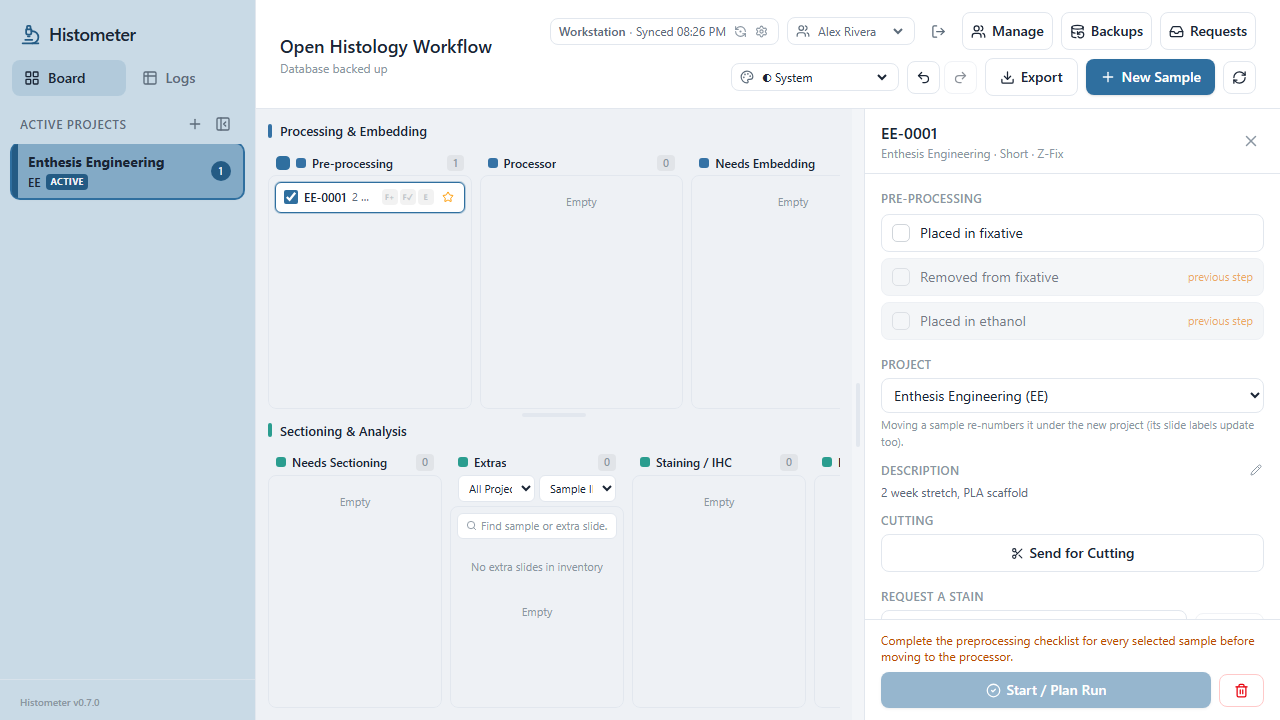
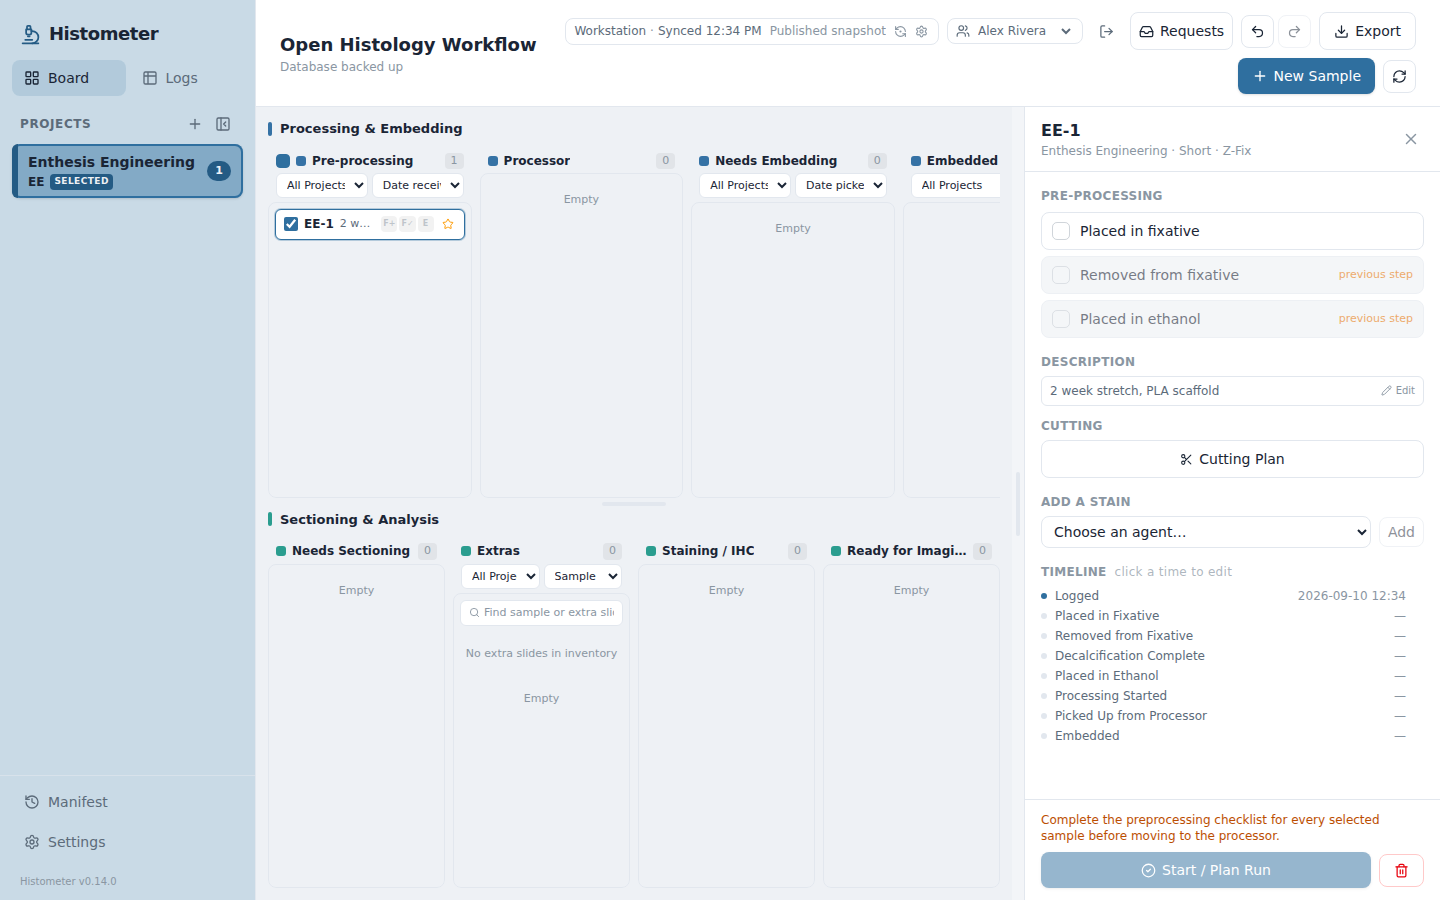
no-mistakes(document): docs: regenerate tutorial screenshots, fix stale walkthrough prose

diff --git a/tests/tutorial/showcase.spec.ts b/tests/tutorial/showcase.spec.ts
@@ -7,7 +7,7 @@ import { settleAfterDrop } from "../helpers/drag";
 //   npx playwright test --config playwright.showcase.config.ts
 //
 // Each shot() writes docs/tutorial/img/<name>.png. The flow is sequential: one
-// sample (EE-0001) is carried from intake all the way to imaging, then the Logs,
+// sample (EE-1) is carried from intake all the way to imaging, then the Logs,
 // depth-tagging, requests, exports and backups features are shown.
 
 const IMG = "docs/tutorial/img";
@@ -66,11 +66,11 @@ test("Histometer feature walkthrough → tutorial screenshots", async ({ page })
   await page.getByPlaceholder("e.g. 2 week Stretch PLA").fill("2 week stretch, PLA scaffold");
   await shot(page, "04-new-sample");
   await page.getByRole("button", { name: /Create Sample/ }).click();
-  await expect(page.getByText("EE-0001")).toBeVisible();
+  await expect(page.getByText("EE-1")).toBeVisible();
   await shot(page, "05-board-intake");
 
   // ---- Sample drawer: preprocessing, project, request a stain -------------
-  await page.getByText("EE-0001", { exact: true }).first().click();
+  await page.getByText("EE-1", { exact: true }).first().click();
   await expect(page.getByRole("heading", { name: "Timeline" })).toBeVisible();
   await shot(page, "06-sample-drawer");
   await page.getByRole("button", { name: "Placed in fixative" }).click();
@@ -79,7 +79,7 @@ test("Histometer feature walkthrough → tutorial screenshots", async ({ page })
   await closeDrawer(page);
 
   // ---- Processing run ------------------------------------------------------
-  await dragOnto(page, "EE-0001", "Processor");
+  await dragOnto(page, "EE-1", "Processor");
   await expect(page.getByRole("heading", { name: /Processing Batch/ })).toBeVisible();
   await shot(page, "07-processing-batch");
   await expect(async () => {
@@ -89,11 +89,11 @@ test("Histometer feature walkthrough → tutorial screenshots", async ({ page })
   }).toPass({ timeout: 15000 });
   await shot(page, "08-processor-running");
   await dragOnto(page, "Batch 1", "Needs Embedding");
-  await dragOnto(page, "EE-0001", "Embedded Inventory");
+  await dragOnto(page, "EE-1", "Embedded Inventory");
   await shot(page, "09-embedded");
 
   // ---- Send for Cutting ----------------------------------------------------
-  await page.getByText("EE-0001", { exact: true }).first().click();
+  await page.getByText("EE-1", { exact: true }).first().click();
   await page.getByRole("button", { name: /Send for Cutting/ }).click();
   await expect(page.getByText(/How many slides to cut/i)).toBeVisible();
   // Make slide #1 an H&E stain to show the mixed plan.
@@ -118,16 +118,16 @@ test("Histometer feature walkthrough → tutorial screenshots", async ({ page })
   for (const step of ["Stained", "Coverslipped"]) {
     await page.getByRole("button", { name: step, exact: true }).click();
   }
-  await expect(col("Ready for Imaging").getByText("EE-0001").first()).toBeVisible({ timeout: 15000 });
+  await expect(col("Ready for Imaging").getByText("EE-1").first()).toBeVisible({ timeout: 15000 });
   await shot(page, "13-ready-for-imaging");
 
   // ---- Logs view -----------------------------------------------------------
   await page.locator("nav").getByRole("button", { name: "Logs" }).click();
-  await expect(page.getByRole("cell", { name: "EE-0001", exact: true })).toBeVisible();
+  await expect(page.getByRole("cell", { name: "EE-1", exact: true })).toBeVisible();
   await shot(page, "14-logs", true);
 
   // Drill in, select slides, tag a depth.
-  await page.getByRole("cell", { name: "EE-0001", exact: true }).click();
+  await page.getByRole("cell", { name: "EE-1", exact: true }).click();
   const boxes = page.getByRole("checkbox", { name: /Select slide/ });
   await boxes.nth(0).check();
   await boxes.nth(1).check();
@@ -141,12 +141,10 @@ test("Histometer feature walkthrough → tutorial screenshots", async ({ page })
   await expect(page.getByText("100µm deep").first()).toBeVisible();
   await shot(page, "17-depth-tag-applied", true);
 
-  // Request a stain from the Logs row.
-  await page.getByRole("button", { name: /Request stain for EE-0001/ }).click();
-  await expect(page.getByRole("heading", { name: "Request a stain" })).toBeVisible();
-  await page.getByLabel("Requested stain / IHC").selectOption({ label: "CD3 (ihc)" });
+  // Add a stain straight from the Logs row. #114 replaced the sync-request
+  // dialog here with an inline picker already scoped to the row's block.
+  await page.getByLabel("Add a stain to EE-1").selectOption({ label: "CD3 (ihc)" });
   await shot(page, "18-request-stain");
-  await page.keyboard.press("Escape");
 
   // ---- Exports + Backups ---------------------------------------------------
   await page.getByRole("button", { name: "Export" }).click();

diff --git a/playwright.showcase.config.ts b/playwright.showcase.config.ts
@@ -15,7 +15,15 @@ export default defineConfig({
     baseURL: `http://localhost:${PORT}`,
     viewport: { width: 1440, height: 900 },
   },
-  projects: [{ name: "chromium", use: { ...devices["Desktop Chrome"] } }],
+  // Spread the device FIRST, then re-apply the viewport: devices["Desktop Chrome"]
+  // carries its own 1280x720 and would otherwise clobber the size set above,
+  // cropping the taller dialogs out of the tutorial screenshots.
+  projects: [
+    {
+      name: "chromium",
+      use: { ...devices["Desktop Chrome"], viewport: { width: 1440, height: 900 } },
+    },
+  ],
   webServer: {
     command: "npx vite --config vite.config.playwright.ts",
     url: `http://localhost:${PORT}`,

diff --git a/docs/tutorial/README.md b/docs/tutorial/README.md
@@ -2,7 +2,7 @@
 
 Histometer tracks histology samples from intake through processing, embedding,
 sectioning, staining, imaging and analysis. This walkthrough follows a single
-block, **EE‑0001**, all the way through the pipeline and then shows the records,
+block, **EE‑1**, all the way through the pipeline and then shows the records,
 tagging, request, export and backup features.
 
 > The screenshots are generated automatically by a Playwright walkthrough
@@ -31,7 +31,9 @@ yourself and sign in — actions are attributed to the signed‑in user.
 ![Manage dialog](img/02-manage.png)
 
 Create a project (a short code + a name). Every sample is numbered within its
-project, e.g. `EE‑0001`.
+project. The code is *stored* zero‑padded — that is the `EE‑0001` the New Sample
+dialog previews — but the board, the Logs and the exports all show it unpadded,
+as `EE‑1`.
 
 ![Add a project](img/03-add-project.png)
 
@@ -106,8 +108,9 @@ column; filter by project, stain/IHC, stage, assay type, or date; search across
 codes, descriptions, stains and notes. Stains that are assigned but not yet cut
 are listed too, marked *(assigned)*, so the log says what the board says — the
 stain and assay-type filters and the search find them, and the CSV/Excel export
-carries them as rows with no slide ID, stage `requested (not cut)`. A block marked exhausted shows an **Exhausted** badge. Export
-the current view as CSV or Excel.
+carries them as rows with no slide ID, stage `requested (not cut)`. A block
+marked exhausted shows an **Exhausted** badge. Export the current view as CSV
+or Excel.
 
 ![Logs](img/14-logs.png)
 
@@ -133,12 +136,14 @@ to clear a tag.
 
 ![Depth tags applied](img/17-depth-tag-applied.png)
 
-## 10. Request a stain
+## 10. Add a stain
 
-You can raise a formal stain request from the sample drawer *or* straight from a
-Logs row — the sample is filled in for you (no typing the code). If a free extra
-exists it's pulled straight into staining; otherwise the block is flagged for a
-fresh cut.
+Expand a Logs row and pick from **Add a stain…** — the block is already scoped,
+so there is no code to type. The sample drawer offers the same control. If a
+free extra exists it's pulled straight into staining; otherwise the block is
+flagged for a fresh cut and the stain shows in the Logs as *(assigned)* until it
+is. A read‑only viewer instead files a formal request for the workstation to
+action.
 
 ![Request a stain](img/18-request-stain.png)
 

diff --git a/README.md b/README.md
@@ -102,7 +102,7 @@ legacy/              original Python prototype (operational CSV exports are igno
 
 Implemented:
 
-- Projects with auto-generated per-project sample IDs (`EE-0001`)
+- Projects with auto-generated per-project sample IDs (shown as `EE-1`)
 - Sample intake and the two-lane, compact-list drag-and-drop workflow board
 - Shift/Ctrl multi-selection and persistent processing batches with a batch-start checklist
 - Stage timestamping and timed processing auto-advance (18h short / 52h long)
